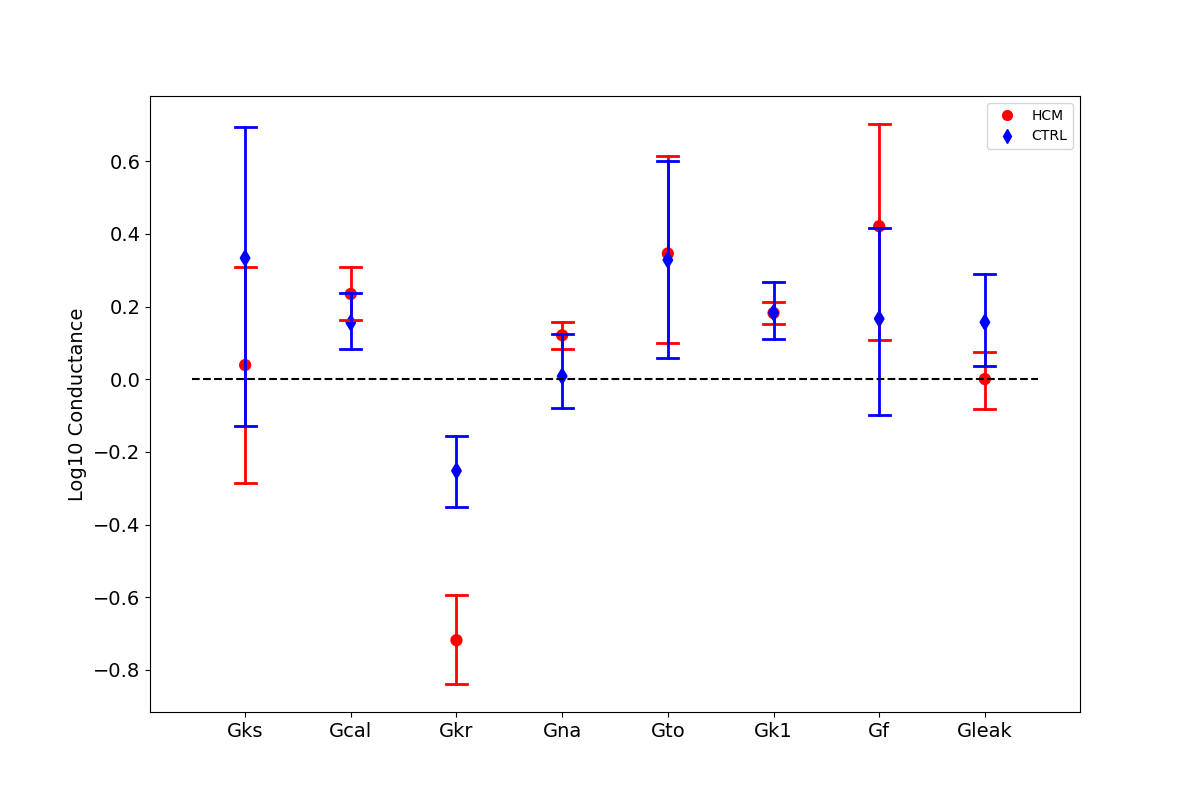
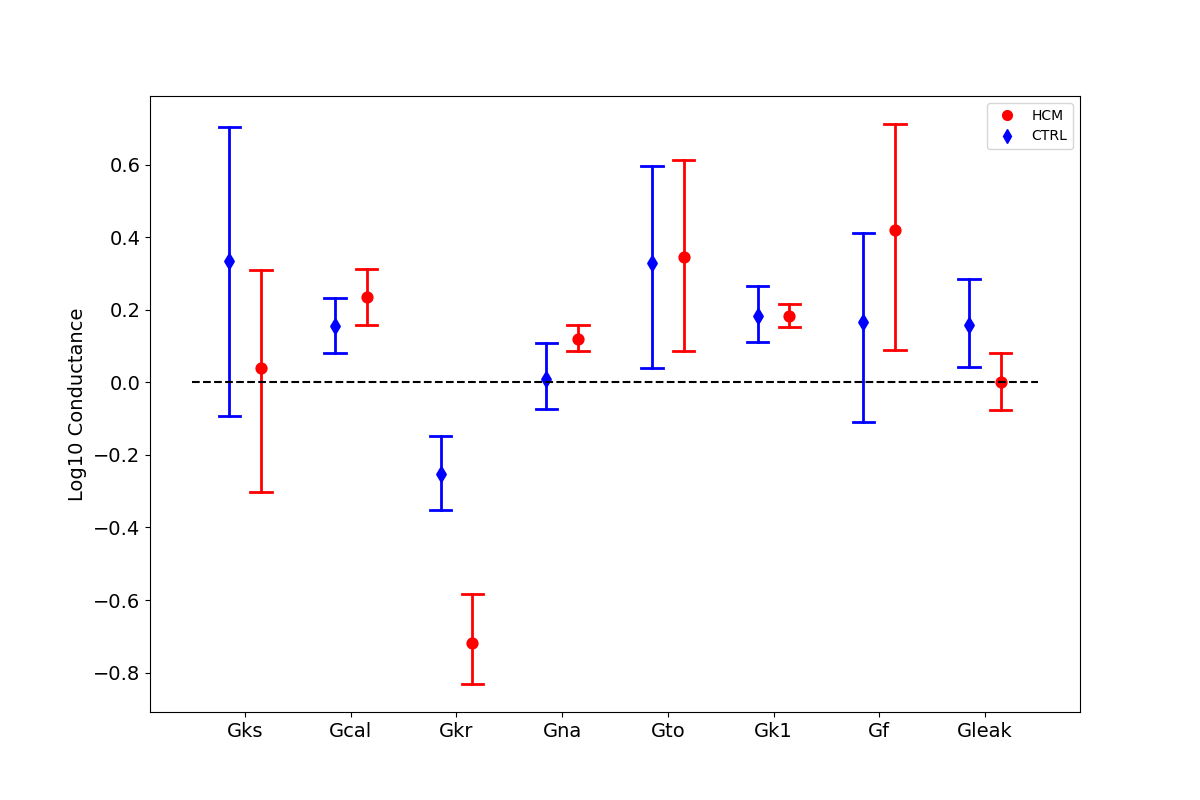
newbars

diff --git a/bar_plot.py b/bar_plot.py
@@ -38,16 +38,19 @@ for ind in pop_CTRL:
 '''data_ctrl = pd.DataFrame(all_ind_dict)
 data_ctrl.to_excel('Cond_CTRL.xlsx', sheet_name='Sheet1',index=False)'''
 
-df_hcm = pd.read_excel('Cond_HCM.xlsx')
-df_ctrl = pd.read_excel('Cond_CTRL.xlsx')
 
+df_all = pd.read_excel('conductances.xlsx')
 
 plt.figure(figsize=(12,8))
 
-sns.pointplot(df_hcm, join=False, capsize=.2, color='red', markers='o', errwidth=2)
-sns.pointplot(df_ctrl, join=False, capsize=.2, color='blue', markers='d', errwidth=2)
-sns.swarmplot(df_hcm, palette=sns.color_palette(['lightcoral','lightcoral','lightcoral','lightcoral','lightcoral','lightcoral','lightcoral','lightcoral']))
-sns.swarmplot(df_ctrl, palette=sns.color_palette(['lightblue','lightblue','lightblue','lightblue','lightblue','lightblue','lightblue','lightblue']))
+#sns.pointplot(df_hcm, join=False, capsize=.2, color='red', markers='o', errwidth=2)
+#sns.pointplot(df_ctrl, join=False, capsize=.2, color='blue', markers='d', errwidth=2)
+#sns.swarmplot(df_hcm, palette=sns.color_palette(['lightcoral','lightcoral','lightcoral','lightcoral','lightcoral','lightcoral','lightcoral','lightcoral']))
+#sns.swarmplot(df_ctrl, palette=sns.color_palette(['lightblue','lightblue','lightblue','lightblue','lightblue','lightblue','lightblue','lightblue']))
+
+
+sns.swarmplot(df_all, x='conductance_name', y='parameter_value', hue='cell_type', palette=sns.color_palette(['lightblue','lightcoral']), dodge=True)
+sns.pointplot(df_all, x='conductance_name', y='parameter_value', hue='cell_type',join=False, capsize=.2, palette=sns.color_palette(['blue','red']), markers=['d','o'], errwidth=2, dodge=0.3)
 
 red_circle = mlines.Line2D([], [], color='red', marker='o', linestyle='None', markersize=7, label='HCM')
 blue_diamond = mlines.Line2D([], [], color='blue', marker='d', linestyle='None', markersize=7, label='CTRL')
@@ -64,8 +67,9 @@ plt.show()
 
 plt.figure(figsize=(12,8))
 
-sns.pointplot(df_hcm, join=False, capsize=.2, color='red', markers='o', errwidth=2)
-sns.pointplot(df_ctrl, join=False, capsize=.2, color='blue', markers='d', errwidth=2)
+#sns.pointplot(df_hcm, join=False, capsize=.2, color='red', markers='o', errwidth=2)
+#sns.pointplot(df_ctrl, join=False, capsize=.2, color='blue', markers='d', errwidth=2)
+sns.pointplot(df_all, x='conductance_name', y='parameter_value', hue='cell_type',join=False, capsize=.2, palette=sns.color_palette(['blue','red']), markers=['d','o'], errwidth=2, dodge=0.3)
 
 red_circle = mlines.Line2D([], [], color='red', marker='o', linestyle='None', markersize=7, label='HCM')
 blue_diamond = mlines.Line2D([], [], color='blue', marker='d', linestyle='None', markersize=7, label='CTRL')
@@ -75,5 +79,6 @@ plt.hlines(0, -.5, (len(keys)-.5), colors='black', linestyle='--')
 plt.xticks(fontsize=14)
 plt.yticks(fontsize=14)
 plt.ylabel('Log10 Conductance', fontsize=14)
+plt.xlabel(xlabel=None)
 plt.savefig('Bar_conductances.png')
 plt.show()
